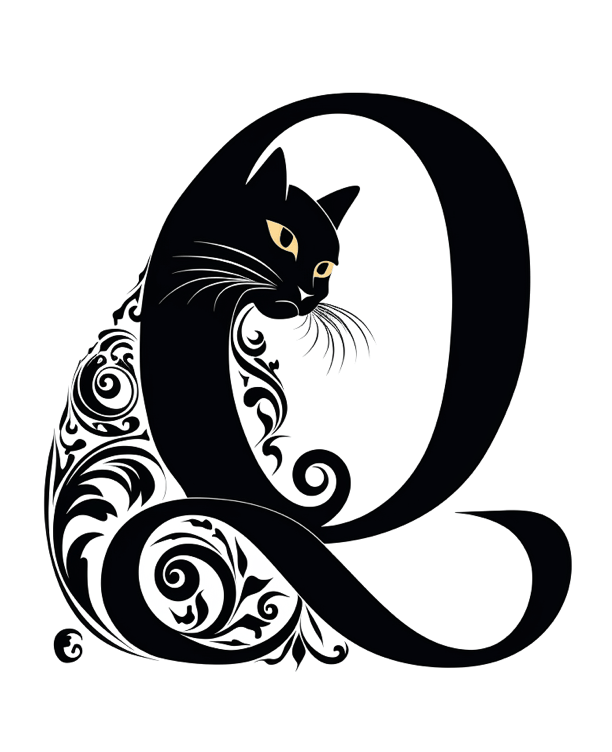
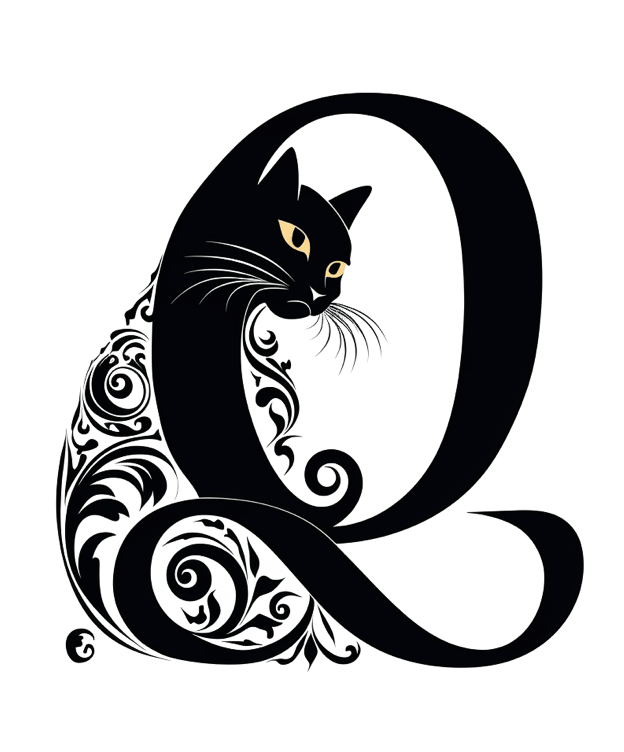
Adjustments to dropcats (I Q light)

diff --git a/js/head-GENERATED.js b/js/head-GENERATED.js
@@ -3710,16 +3710,16 @@ GW.assetVersions = {
 	"/static/font/drop-cap/dropcat/light/G-8-small-2x.png": "1698285108",
 	"/static/font/drop-cap/dropcat/light/G-9-small-1x.png": "1698285108",
 	"/static/font/drop-cap/dropcat/light/G-9-small-2x.png": "1698285108",
-	"/static/font/drop-cap/dropcat/light/I-1-small-1x.png": "1698152552",
-	"/static/font/drop-cap/dropcat/light/I-1-small-2x.png": "1698152552",
+	"/static/font/drop-cap/dropcat/light/I-1-small-1x.png": "1698285896",
+	"/static/font/drop-cap/dropcat/light/I-1-small-2x.png": "1698285896",
 	"/static/font/drop-cap/dropcat/light/Q-1-small-1x.png": "1698157852",
 	"/static/font/drop-cap/dropcat/light/Q-1-small-2x.png": "1698157852",
 	"/static/font/drop-cap/dropcat/light/Q-10-small-1x.png": "1698162541",
 	"/static/font/drop-cap/dropcat/light/Q-10-small-2x.png": "1698162541",
 	"/static/font/drop-cap/dropcat/light/Q-11-small-1x.png": "1698262535",
 	"/static/font/drop-cap/dropcat/light/Q-11-small-2x.png": "1698262535",
-	"/static/font/drop-cap/dropcat/light/Q-12-small-1x.png": "1698162542",
-	"/static/font/drop-cap/dropcat/light/Q-12-small-2x.png": "1698162542",
+	"/static/font/drop-cap/dropcat/light/Q-12-small-1x.png": "1698286041",
+	"/static/font/drop-cap/dropcat/light/Q-12-small-2x.png": "1698286041",
 	"/static/font/drop-cap/dropcat/light/Q-2-small-1x.png": "1698263646",
 	"/static/font/drop-cap/dropcat/light/Q-2-small-2x.png": "1698263646",
 	"/static/font/drop-cap/dropcat/light/Q-3-small-1x.png": "1698262535",

diff --git a/js/asset-versions-GENERATED.js b/js/asset-versions-GENERATED.js
@@ -144,16 +144,16 @@ GW.assetVersions = {
 	"/static/font/drop-cap/dropcat/light/G-8-small-2x.png": "1698285108",
 	"/static/font/drop-cap/dropcat/light/G-9-small-1x.png": "1698285108",
 	"/static/font/drop-cap/dropcat/light/G-9-small-2x.png": "1698285108",
-	"/static/font/drop-cap/dropcat/light/I-1-small-1x.png": "1698152552",
-	"/static/font/drop-cap/dropcat/light/I-1-small-2x.png": "1698152552",
+	"/static/font/drop-cap/dropcat/light/I-1-small-1x.png": "1698285896",
+	"/static/font/drop-cap/dropcat/light/I-1-small-2x.png": "1698285896",
 	"/static/font/drop-cap/dropcat/light/Q-1-small-1x.png": "1698157852",
 	"/static/font/drop-cap/dropcat/light/Q-1-small-2x.png": "1698157852",
 	"/static/font/drop-cap/dropcat/light/Q-10-small-1x.png": "1698162541",
 	"/static/font/drop-cap/dropcat/light/Q-10-small-2x.png": "1698162541",
 	"/static/font/drop-cap/dropcat/light/Q-11-small-1x.png": "1698262535",
 	"/static/font/drop-cap/dropcat/light/Q-11-small-2x.png": "1698262535",
-	"/static/font/drop-cap/dropcat/light/Q-12-small-1x.png": "1698162542",
-	"/static/font/drop-cap/dropcat/light/Q-12-small-2x.png": "1698162542",
+	"/static/font/drop-cap/dropcat/light/Q-12-small-1x.png": "1698286041",
+	"/static/font/drop-cap/dropcat/light/Q-12-small-2x.png": "1698286041",
 	"/static/font/drop-cap/dropcat/light/Q-2-small-1x.png": "1698263646",
 	"/static/font/drop-cap/dropcat/light/Q-2-small-2x.png": "1698263646",
 	"/static/font/drop-cap/dropcat/light/Q-3-small-1x.png": "1698262535",

diff --git a/include/inlined-head.html b/include/inlined-head.html
@@ -912,5 +912,5 @@ a[data-link-icon-type*='svg'] .link-icon-hook::after {
 }
 </style>
 <link rel="stylesheet" href="/static/css/head.css?v=1698263740">
-<script src="/static/js/head.js?v=1698285715"></script>
+<script src="/static/js/head.js?v=1698286074"></script>
 <link rel="preload" href="/static/img/icon/icons.svg?v=1698021605" as="image">
